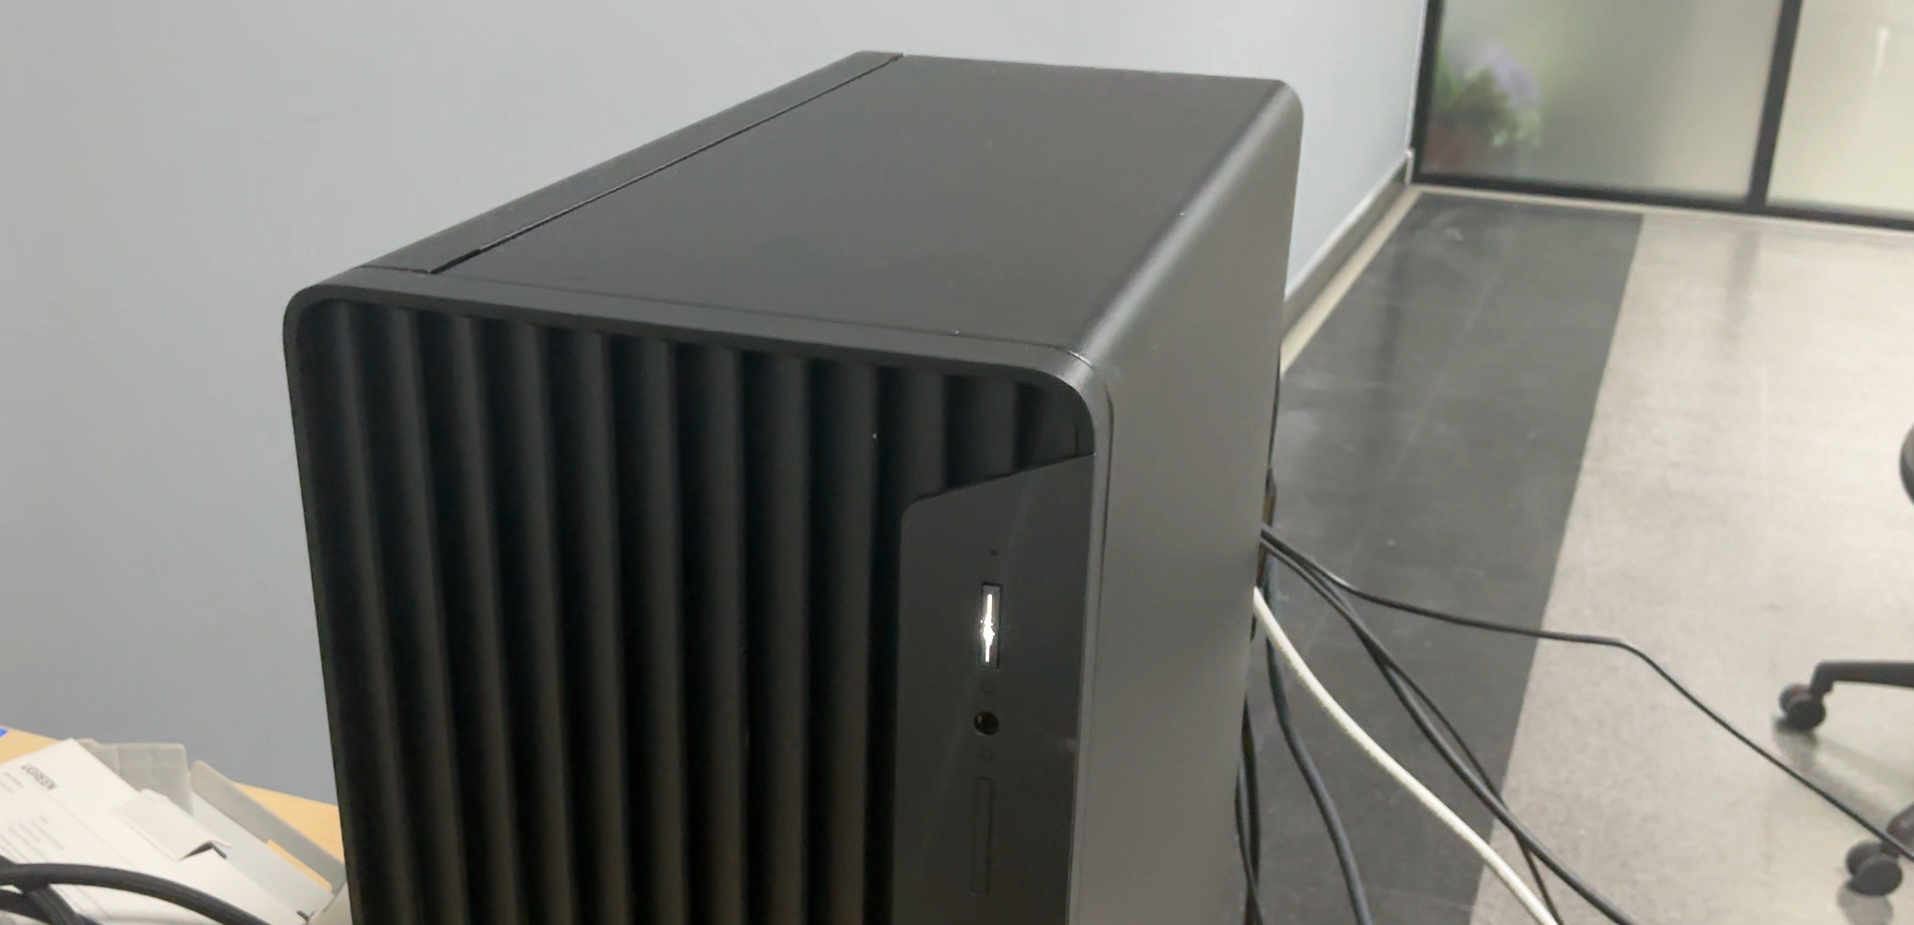
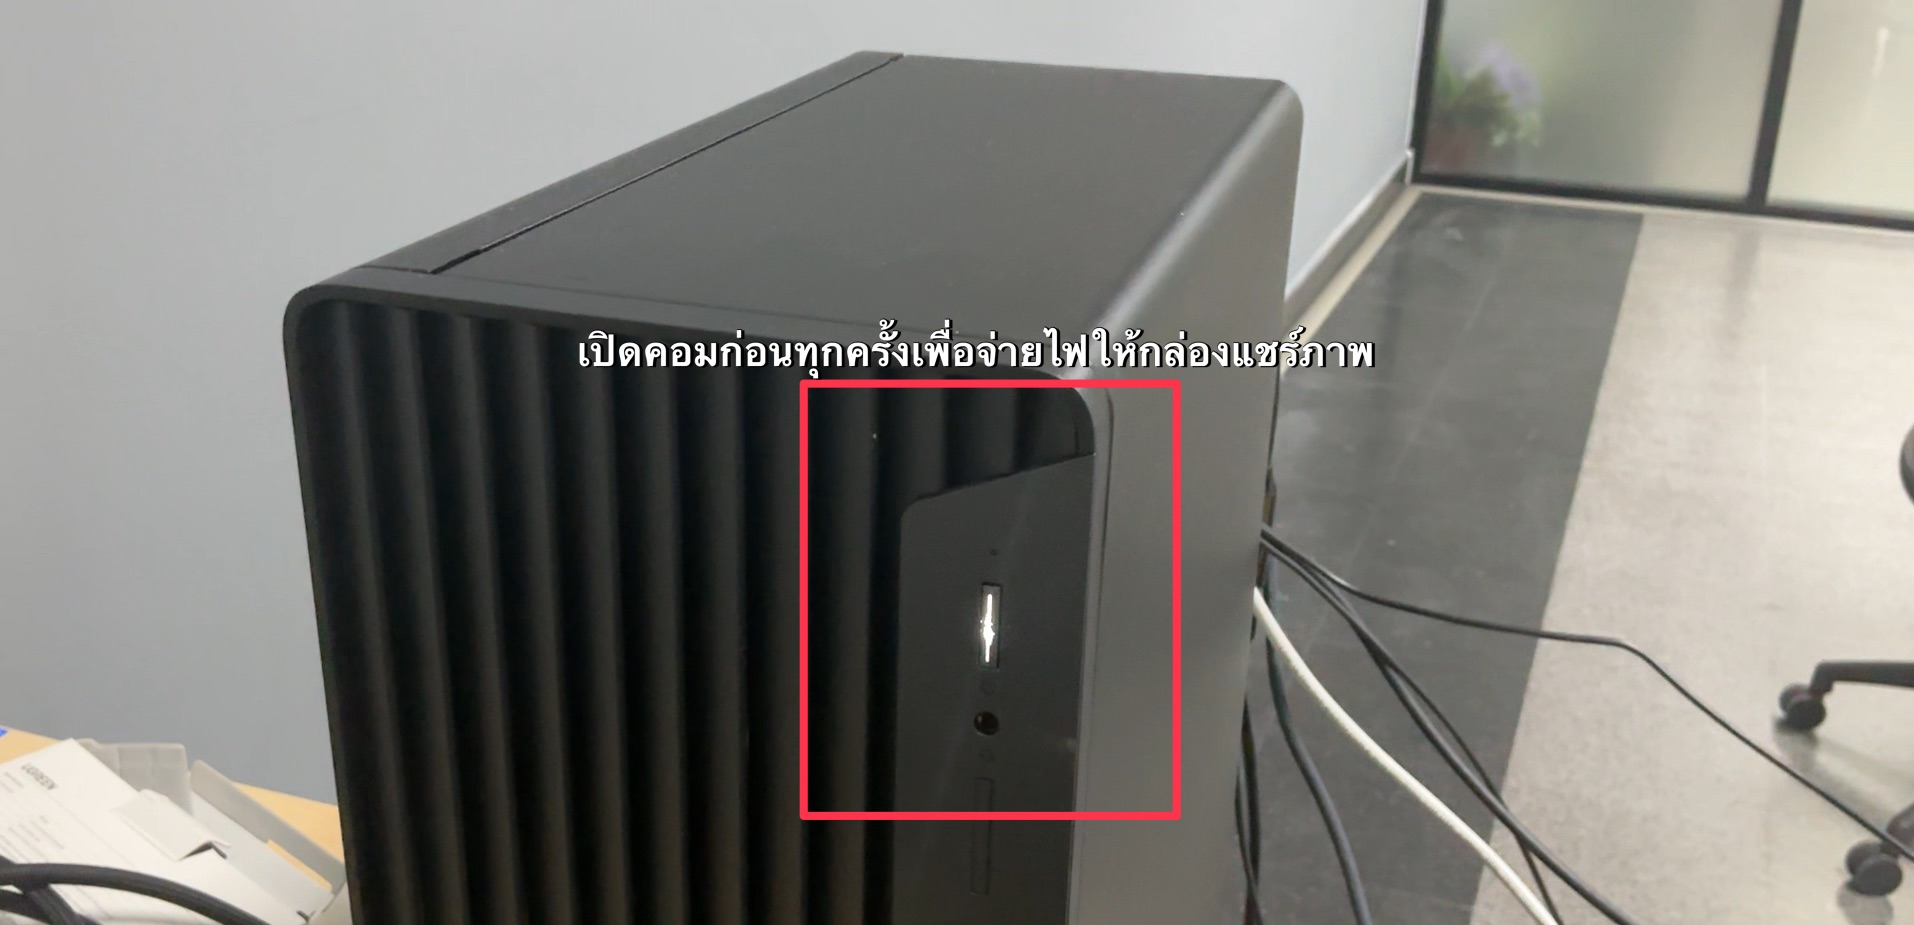
แก้คำเปลี่ยนรูปอัพเดตวงแดง

Changed region(s): [[0.2774, 0.333, 0.7398, 0.9081]]

diff --git a/lib/data/workflows.ts b/lib/data/workflows.ts
@@ -92,7 +92,7 @@ const jongrakRoomPcPresentation: Workflow = {
       instruction: "ตรวจกล่องควบคุมก่อนเริ่มใช้งาน — ถ้าใช้คอมพิวเตอร์ประจำห้อง ให้เลือกช่อง 1 (Input 1)",
       expectedResult: "กล่องควบคุมแสดงว่าเลือกช่อง 1 (ภาพ) แล้ว",
       image: { status: "ready",
-        src: "/images/floor-5/jongrak/control-box-input1-audio1.webp",
+        src: "/images/floor-5/jongrak/control-box-input1.webp",
         alt: "กล่องควบคุมของห้องจงรัก กดเลือก Input 1" },
     },
     {
@@ -102,7 +102,7 @@ const jongrakRoomPcPresentation: Workflow = {
       instruction: "ตรวจช่องเสียงที่กล่องควบคุมให้เป็นช่อง 1 เพื่อให้เสียงมาจากคอมพิวเตอร์ประจำห้อง",
       expectedResult: "กล่องควบคุมแสดงว่าเลือกช่องเสียงเป็นช่อง 1 แล้ว",
       image: { status: "ready",
-        src: "/images/floor-5/jongrak/control-box-input1-audio1.webp",
+        src: "/images/floor-5/jongrak/control-box-audio1.webp",
         alt: "กล่องควบคุมของห้องจงรัก กดเลือก Audio 1" },
     },
   ],
@@ -150,7 +150,7 @@ const jongrakWebexRecording: Workflow = {
     level: "danger",
     title: "🛑 คำเตือนสำคัญ",
     message:
-      "ห้ามกดเปลี่ยนช่องบน Mini Monitor ต้องคงไว้ที่ IN 1 เสมอ เพื่อให้ระบบ Webex บันทึกภาพบรรยากาศภายในห้องประชุมได้อย่างถูกต้อง",
+      "ห้ามกดเปลี่ยนช่องบน Mini Monitor ต้องคงไว้ที่ IN 1 เสมอ เพื่อให้ระบบ Webex บันทึกภาพบรรยากาศภายในห้องประชุมได้อย่างถูกต้องและเปิดคอมพิวเตอร์ประจำห้องไว้เสมอ",
   },
   beforeSteps: [
     {
@@ -160,7 +160,7 @@ const jongrakWebexRecording: Workflow = {
       instruction: "ตรวจกล่องควบคุมก่อนเริ่มใช้งาน — เลือกช่อง 1 (Input 1) สำหรับคอมพิวเตอร์ประจำห้อง",
       expectedResult: "กล่องควบคุมแสดงว่าเลือกช่อง 1 (ภาพ) แล้ว",
       image: { status: "ready",
-        src: "/images/floor-5/jongrak/control-box-input1-audio1.webp",
+        src: "/images/floor-5/jongrak/control-box-input1.webp",
         alt: "กล่องควบคุมของห้องจงรัก กดเลือก Input 1" },
     },
     {
@@ -170,7 +170,7 @@ const jongrakWebexRecording: Workflow = {
       instruction: "ตรวจช่องเสียงที่กล่องควบคุมให้เป็นช่อง 1",
       expectedResult: "กล่องควบคุมแสดงว่าเลือกช่องเสียงเป็นช่อง 1 แล้ว",
       image: { status: "ready",
-        src: "/images/floor-5/jongrak/control-box-input1-audio1.webp",
+        src: "/images/floor-5/jongrak/control-box-audio1.webp",
         alt: "กล่องควบคุมของห้องจงรัก กดเลือก Audio 1" },
     },
   ],
@@ -318,13 +318,22 @@ const jongrakPersonalScreenShare: Workflow = {
         fallbackPrompt: "ภาพยังไม่ขึ้น? ลองเชื่อมต่อผ่าน Wi-Fi แทน",
         beforeSteps: [
           {
+            id: "jongrak-pc-1",
+            order: 1,
+            title: "เปิดคอมพิวเตอร์ประจำห้อง",
+            instruction: "เปิดคอมพิวเตอร์ประจำห้อง",
+            image: { status: "ready",
+              src: "/images/floor-5/jongrak/room-pc-power.webp",
+              alt: "ปุ่มเปิดเครื่องคอมพิวเตอร์ประจำห้อง" },
+          },
+          {
             id: "jongrak-dongle-before-1",
             order: 1,
             title: "ตรวจกล่องควบคุม",
             instruction: "ตรวจที่กล่องควบคุมก่อนว่าเลือกช่อง 2 (Input 2) สำหรับ Wireless",
             expectedResult: "กล่องควบคุมแสดงว่าเลือกช่อง 2 (ภาพ) แล้ว",
             image: { status: "ready",
-              src: "/images/floor-5/jongrak/control-box-input2-audio2.webp",
+              src: "/images/floor-5/jongrak/control-box-input2.webp",
               alt: "กล่องควบคุม เลือกช่อง 2 สำหรับภาพ" },
           },
           {
@@ -334,7 +343,7 @@ const jongrakPersonalScreenShare: Workflow = {
             instruction: "ตรวจช่องเสียงให้เป็นช่อง 2 เพื่อให้เสียงมาจากอุปกรณ์ Wireless",
             expectedResult: "กล่องควบคุมแสดงว่าเลือกช่องเสียงเป็นช่อง 2 แล้ว",
             image: { status: "ready",
-              src: "/images/floor-5/jongrak/control-box-input2-audio2.webp",
+              src: "/images/floor-5/jongrak/control-box-audio2.webp",
               alt: "กล่องควบคุม เลือกช่อง 2 สำหรับเสียง" },
           },
         ],
@@ -396,13 +405,22 @@ const jongrakPersonalScreenShare: Workflow = {
         description: "เหมาะสำหรับ Mac และเครื่องที่ต้องการเชื่อมต่อโดยไม่ต้องติดตั้ง Driver",
         beforeSteps: [
           {
+            id: "jongrak-pc-1",
+            order: 1,
+            title: "เปิดคอมพิวเตอร์ประจำห้อง",
+            instruction: "เปิดคอมพิวเตอร์ประจำห้อง",
+            image: { status: "ready",
+              src: "/images/floor-5/jongrak/room-pc-power.webp",
+              alt: "ปุ่มเปิดเครื่องคอมพิวเตอร์ประจำห้อง" },
+          },
+          {
             id: "jongrak-wifi-before-1",
             order: 1,
             title: "ตรวจกล่องควบคุม",
             instruction: "ตรวจกล่องควบคุมให้เลือกช่อง 2 (Input 2) สำหรับ Wireless",
             expectedResult: "กล่องควบคุมแสดงว่าเลือกช่อง 2 (ภาพ) แล้ว",
             image: { status: "ready",
-              src: "/images/floor-5/jongrak/control-box-input2-audio2.webp",
+              src: "/images/floor-5/jongrak/control-box-input2.webp",
               alt: "กล่องควบคุม เลือกช่อง 2 สำหรับภาพ" },
           },
           {
@@ -412,7 +430,7 @@ const jongrakPersonalScreenShare: Workflow = {
             instruction: "ตรวจช่องเสียงให้เป็นช่อง 2 เพื่อให้เสียงมาจากอุปกรณ์ Wireless",
             expectedResult: "กล่องควบคุมแสดงว่าเลือกช่องเสียงเป็นช่อง 2 แล้ว",
             image: { status: "ready",
-              src: "/images/floor-5/jongrak/control-box-input2-audio2.webp",
+              src: "/images/floor-5/jongrak/control-box-audio2.webp",
               alt: "กล่องควบคุม เลือกช่อง 2 สำหรับเสียง" },
           },
         ],
